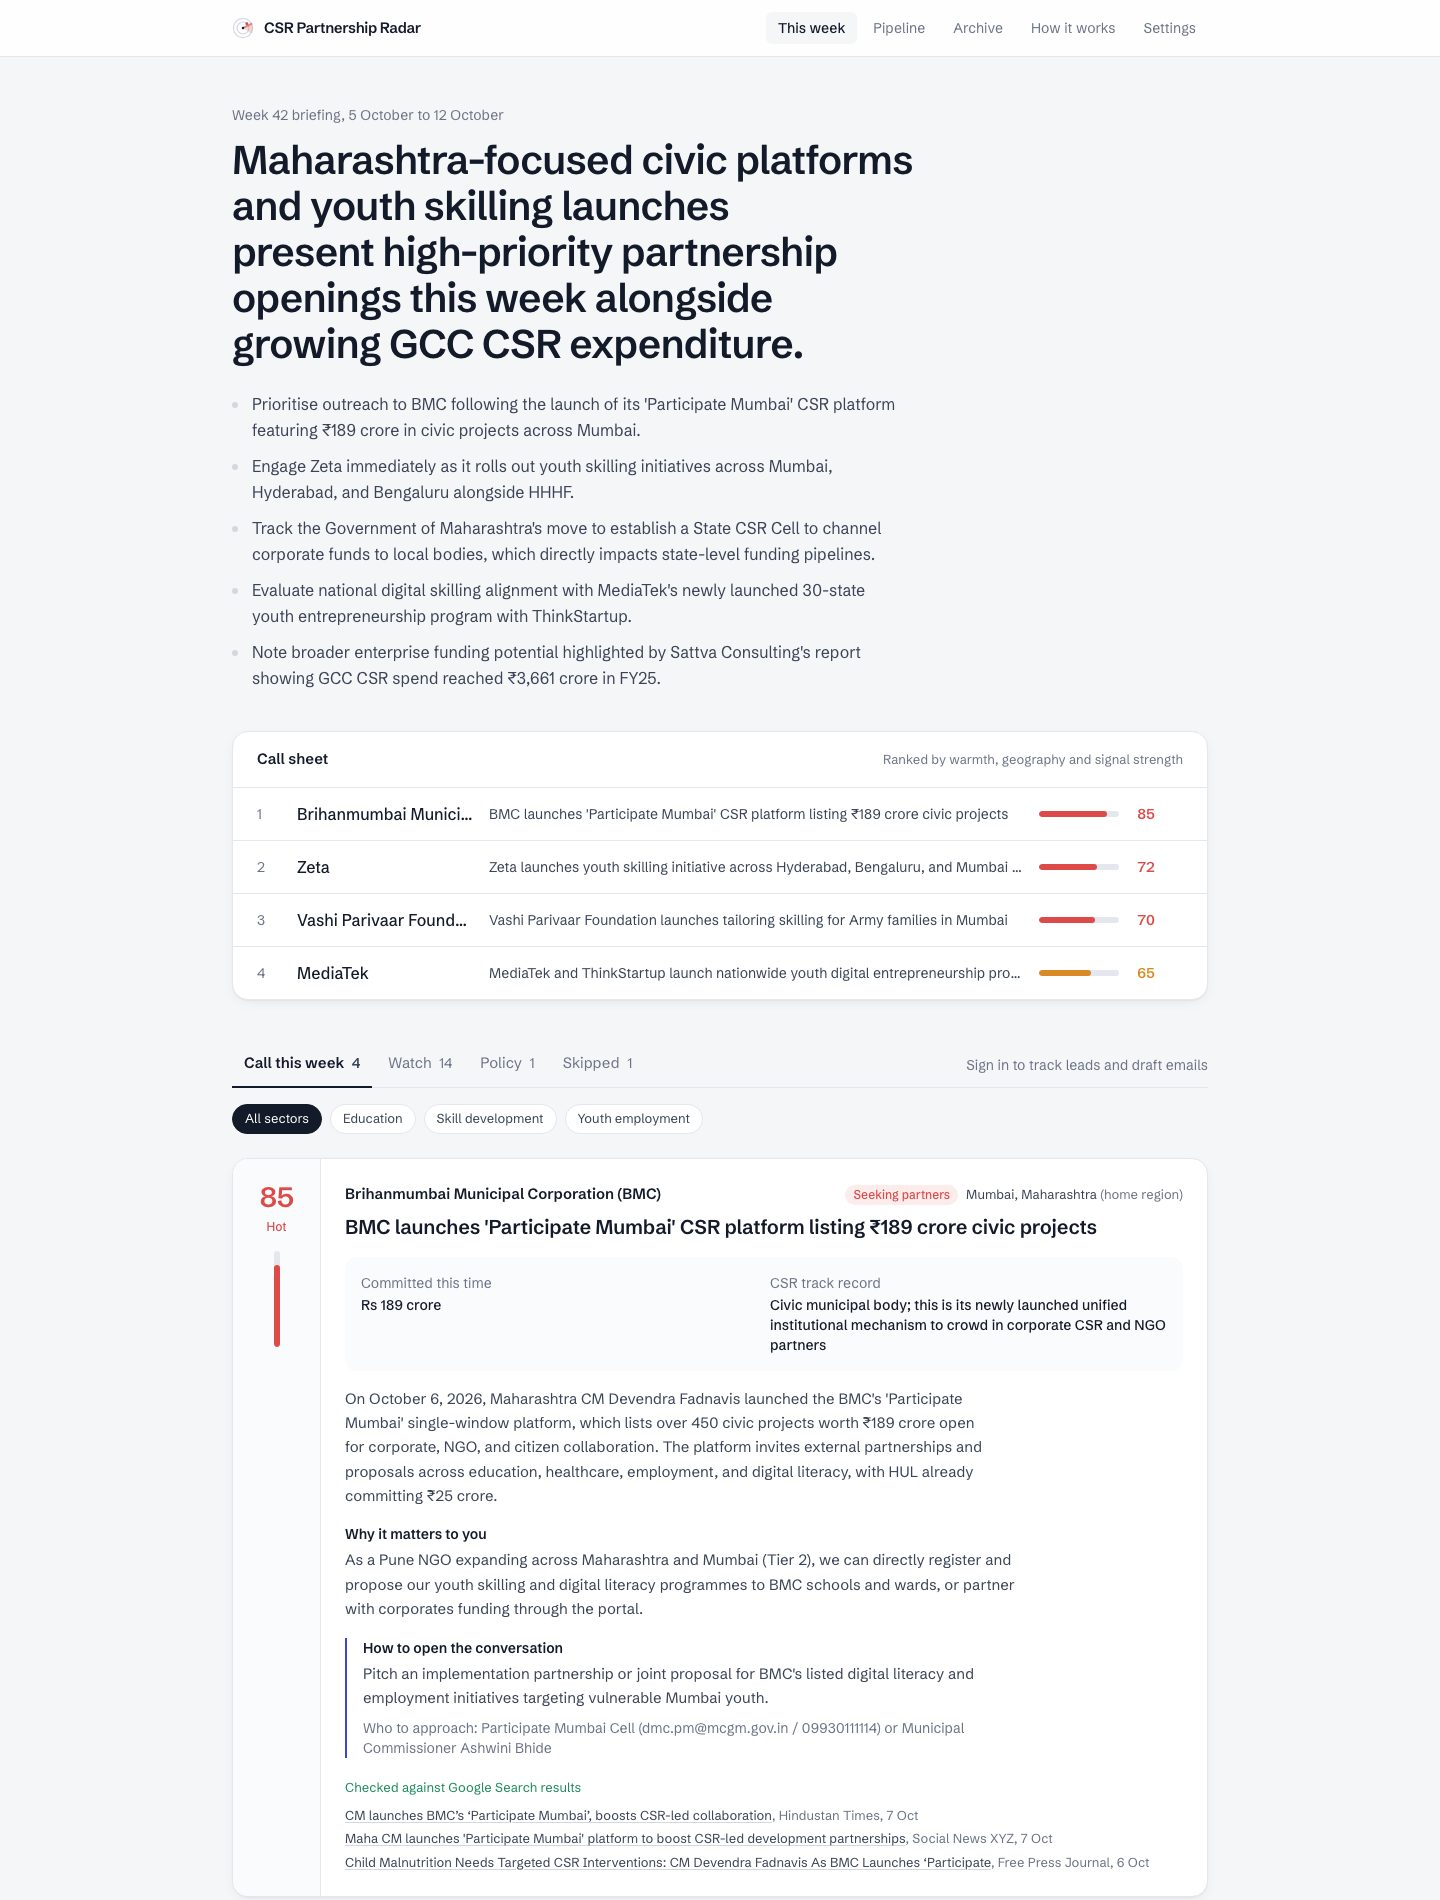
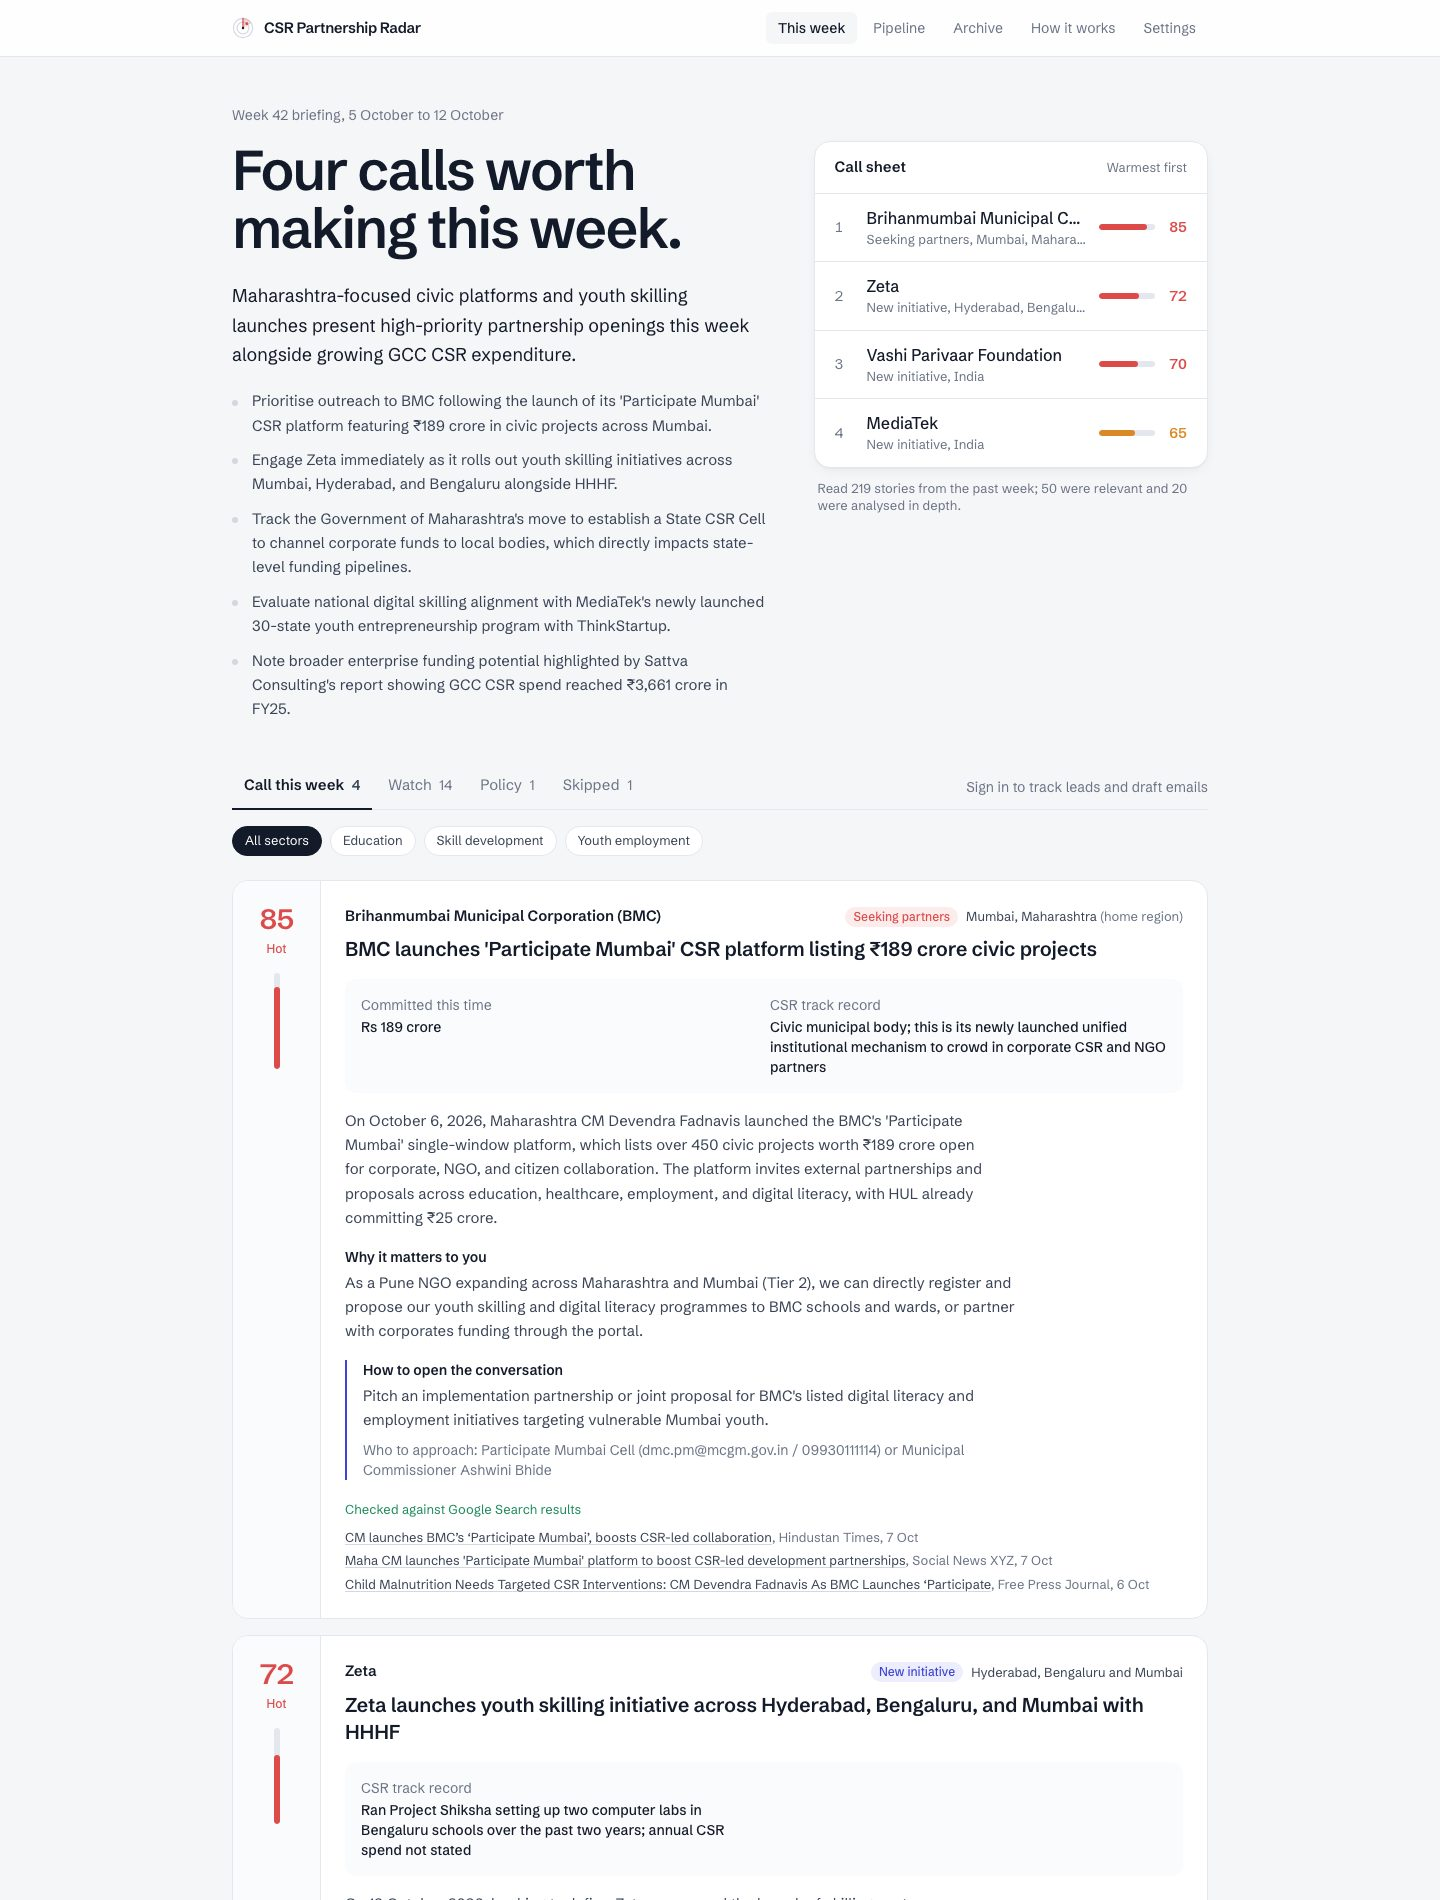
Light theme only; data-led hero with call sheet beside it (#3)
- Drop dark theme, declare color-scheme light
- Hero states how many calls are worth making; Gemini summary becomes the deck
- Call sheet sits beside the hero on desktop, right after the summary on mobile
- Only the call sheet is elevated; lead cards are flat
- Radar sweep plays once on load instead of looping

diff --git a/components/Briefing.tsx b/components/Briefing.tsx
@@ -7,34 +7,42 @@ import { isoWeek, TEMP_CLASS, tempOf } from "@/lib/warmth";
 const longDate = (iso: string) =>
   new Date(iso).toLocaleDateString("en-IN", { day: "numeric", month: "long", timeZone: "Asia/Kolkata" });
 
+const WORDS = ["No", "One", "Two", "Three", "Four", "Five", "Six", "Seven", "Eight", "Nine", "Ten"];
+
+function heroLine(calls: number) {
+  if (calls === 0) return "Nothing urgent to call about this week.";
+  const n = WORDS[calls] ?? String(calls);
+  return `${n} ${calls === 1 ? "call" : "calls"} worth making this week.`;
+}
+
 function CallSheet({ digest }: { digest: Digest }) {
   const { calls } = groupItems(digest.items);
   if (!calls.length) return null;
   return (
-    <section aria-labelledby="callsheet" className="mt-10 overflow-hidden rounded-2xl border border-line bg-surface shadow-card">
-      <div className="flex items-baseline justify-between gap-4 border-b border-line px-5 py-4 sm:px-6">
+    <section aria-labelledby="callsheet" className="overflow-hidden rounded-2xl border border-line bg-surface shadow-card">
+      <div className="flex items-baseline justify-between gap-4 border-b border-line px-5 py-3.5">
         <h2 id="callsheet" className="text-[15px] font-semibold">Call sheet</h2>
-        <p className="text-[13px] text-muted">Ranked by warmth, geography and signal strength</p>
+        <p className="text-[13px] text-muted">Warmest first</p>
       </div>
       <ol>
         {calls.map((item, i) => {
           const t = TEMP_CLASS[tempOf(item.warmth)];
           return (
             <li key={item.id} className="border-b border-line last:border-0">
-              <a
-                href={`#lead-${item.id}`}
-                className="grid grid-cols-[1.5rem_1fr_auto] items-center gap-x-4 gap-y-1 px-5 py-3.5 transition-colors hover:bg-raised sm:grid-cols-[1.5rem_11rem_1fr_9rem] sm:px-6"
-              >
-                <span className="text-sm text-muted">{i + 1}</span>
-                <span className="truncate font-medium">{item.company || "Unnamed"}</span>
-                <span className="col-start-2 row-start-2 truncate text-sm text-ink-2 sm:col-start-auto sm:row-start-auto">
-                  {item.headline}
-                </span>
-                <span className="col-start-3 row-span-2 row-start-1 flex items-center gap-2 sm:col-start-auto sm:row-span-1 sm:row-start-auto">
-                  <span className="relative h-1.5 w-16 overflow-hidden rounded-full bg-line sm:w-20">
-                    <span className={`bar-in absolute inset-y-0 left-0 rounded-full ${t.bg}`} style={{ width: `${item.warmth}%`, animationDelay: `${i * 60}ms` }} />
+              <a href={`#lead-${item.id}`} className="grid grid-cols-[1.25rem_1fr_auto] items-center gap-x-3 px-5 py-3 transition-colors hover:bg-raised">
+                <span className="text-sm tabular-nums text-muted">{i + 1}</span>
+                <span className="min-w-0">
+                  <span className="block truncate font-medium">{item.company || "Unnamed"}</span>
+                  <span className="block truncate text-[13px] text-muted">
+                    {SIGNAL_LABEL[item.signalType]}
+                    {item.geography ? `, ${item.geography}` : ""}
                   </span>
-                  <span className={`w-7 text-right text-sm font-semibold tabular-nums ${t.text}`}>{item.warmth}</span>
+                </span>
+                <span className="flex items-center gap-2">
+                  <span className="relative h-1.5 w-14 overflow-hidden rounded-full bg-line">
+                    <span className={`bar-in absolute inset-y-0 left-0 rounded-full ${t.bg}`} style={{ width: `${item.warmth}%`, animationDelay: `${300 + i * 70}ms` }} />
+                  </span>
+                  <span className={`w-6 text-right text-sm font-semibold tabular-nums ${t.text}`}>{item.warmth}</span>
                 </span>
               </a>
             </li>
@@ -50,24 +58,38 @@ export function Briefing({ digest, leads, admin }: { digest: Digest; leads: Reco
   const week = isoWeek(new Date(`${digest.weekOf}T00:00:00Z`));
   const bySignal = Object.entries(c.relevantBySignal ?? {}) as [SignalType, number][];
 
+  const callCount = groupItems(digest.items).calls.length;
+
   return (
     <div>
       <p className="text-sm text-muted">
         Week {week} briefing, {longDate(c.windowStart)} to {longDate(c.windowEnd)}
         {digest.backfilled && <span className="ml-2 rounded-full border border-line px-2 py-0.5 text-xs">Rebuilt from dated news searches</span>}
       </p>
-      <h1 className="mt-3 max-w-[30ch] text-[30px] font-semibold leading-[1.15] tracking-[-0.02em] text-balance sm:text-[40px]">
-        {digest.summary.headline}
-      </h1>
-      <ul className="mt-6 max-w-[68ch] space-y-2.5 text-[16px] leading-relaxed text-ink-2">
-        {digest.summary.bullets.map((b) => (
-          <li key={b} className="relative pl-5 before:absolute before:left-0 before:top-[0.7em] before:size-1.5 before:rounded-full before:bg-line-strong">
-            {b}
-          </li>
-        ))}
-      </ul>
 
-      <CallSheet digest={digest} />
+      <div className="mt-4 grid gap-y-8 lg:grid-cols-[minmax(0,1.15fr)_minmax(0,0.85fr)] lg:items-start lg:gap-x-12 lg:gap-y-5">
+        <div className="lg:col-start-1 lg:row-start-1">
+          <h1 className="max-w-[14ch] text-[40px] font-semibold leading-[1.04] tracking-[-0.035em] text-balance sm:text-[56px]">
+            {heroLine(callCount)}
+          </h1>
+          <p className="mt-6 max-w-[56ch] text-[18px] leading-relaxed text-ink">{digest.summary.headline}</p>
+        </div>
+        <div className="lg:col-start-1 lg:row-start-2">
+          <ul className="max-w-[60ch] space-y-2.5 text-[15px] leading-relaxed text-ink-2">
+            {digest.summary.bullets.map((b) => (
+              <li key={b} className="relative pl-5 before:absolute before:left-0 before:top-[0.7em] before:size-1.5 before:rounded-full before:bg-line-strong">
+                {b}
+              </li>
+            ))}
+          </ul>
+        </div>
+        <div className="row-start-2 lg:sticky lg:top-24 lg:col-start-2 lg:row-span-2 lg:row-start-1">
+          <CallSheet digest={digest} />
+          <p className="mt-3 px-1 text-[13px] leading-snug text-muted">
+            Read {c.unique} stories from the past week; {c.relevant} were relevant and {c.distilled} were analysed in depth.
+          </p>
+        </div>
+      </div>
 
       <LeadBoard digestId={digest.id} items={digest.items} initialLeads={leads} admin={admin} />
 

diff --git a/app/globals.css b/app/globals.css
@@ -1,6 +1,7 @@
 @import "tailwindcss";
 
 :root {
+  color-scheme: light;
   --bg: #f5f6f8;
   --surface: #ffffff;
   --raised: #fafbfc;
@@ -23,33 +24,6 @@
   --ok: #1f8a5b;
   --ok-soft: #e6f4ed;
   --shadow: 0 1px 1px rgb(19 26 41 / 0.04), 0 4px 14px -4px rgb(19 26 41 / 0.08);
-}
-
-@media (prefers-color-scheme: dark) {
-  :root {
-    --bg: #0e1320;
-    --surface: #151b2b;
-    --raised: #1a2134;
-    --ink: #e8ecf4;
-    --ink-2: #c3cad8;
-    --muted: #8c95a8;
-    --line: #252d41;
-    --line-strong: #323b52;
-    --brand: #8a8fff;
-    --brand-ink: #0e1320;
-    --brand-soft: #22264a;
-    --cold: #8fb0da;
-    --cold-soft: #1b2638;
-    --warm: #f0b062;
-    --warm-soft: #33281a;
-    --hot: #f07373;
-    --hot-soft: #3a1f24;
-    --policy: #b7a3f0;
-    --policy-soft: #262040;
-    --ok: #5cc795;
-    --ok-soft: #173126;
-    --shadow: 0 1px 1px rgb(0 0 0 / 0.3), 0 6px 18px -6px rgb(0 0 0 / 0.5);
-  }
 }
 
 @theme inline {
@@ -109,7 +83,7 @@ dialog::backdrop {
   to { transform: scaleX(1); }
 }
 
-.radar-sweep { transform-origin: 50% 50%; animation: sweep 6s linear infinite; }
+.radar-sweep { transform-origin: 50% 50%; animation: sweep 1.4s cubic-bezier(0.3, 0.6, 0.2, 1) 1 both; }
 .bar-in { transform-origin: left; animation: fill-in 700ms cubic-bezier(0.2, 0.7, 0.2, 1) both; }
 
 @media (prefers-reduced-motion: reduce) {

diff --git a/components/LeadBoard.tsx b/components/LeadBoard.tsx
@@ -278,7 +278,7 @@ export function LeadBoard({ digestId, items, initialLeads, admin }: { digestId: 
 
         {tab === "calls" &&
           visible.map((item) => (
-            <article key={item.id} id={`lead-${item.id}`} className="scroll-mt-20 overflow-hidden rounded-2xl border border-line bg-surface shadow-card sm:grid sm:grid-cols-[88px_1fr]">
+            <article key={item.id} id={`lead-${item.id}`} className="scroll-mt-24 overflow-hidden rounded-2xl border border-line bg-surface sm:grid sm:grid-cols-[88px_1fr]">
               <WarmthRail warmth={item.warmth} />
               <div className="min-w-0 p-5 sm:p-6">
                 <div className="flex flex-wrap items-baseline justify-between gap-x-4 gap-y-1">
